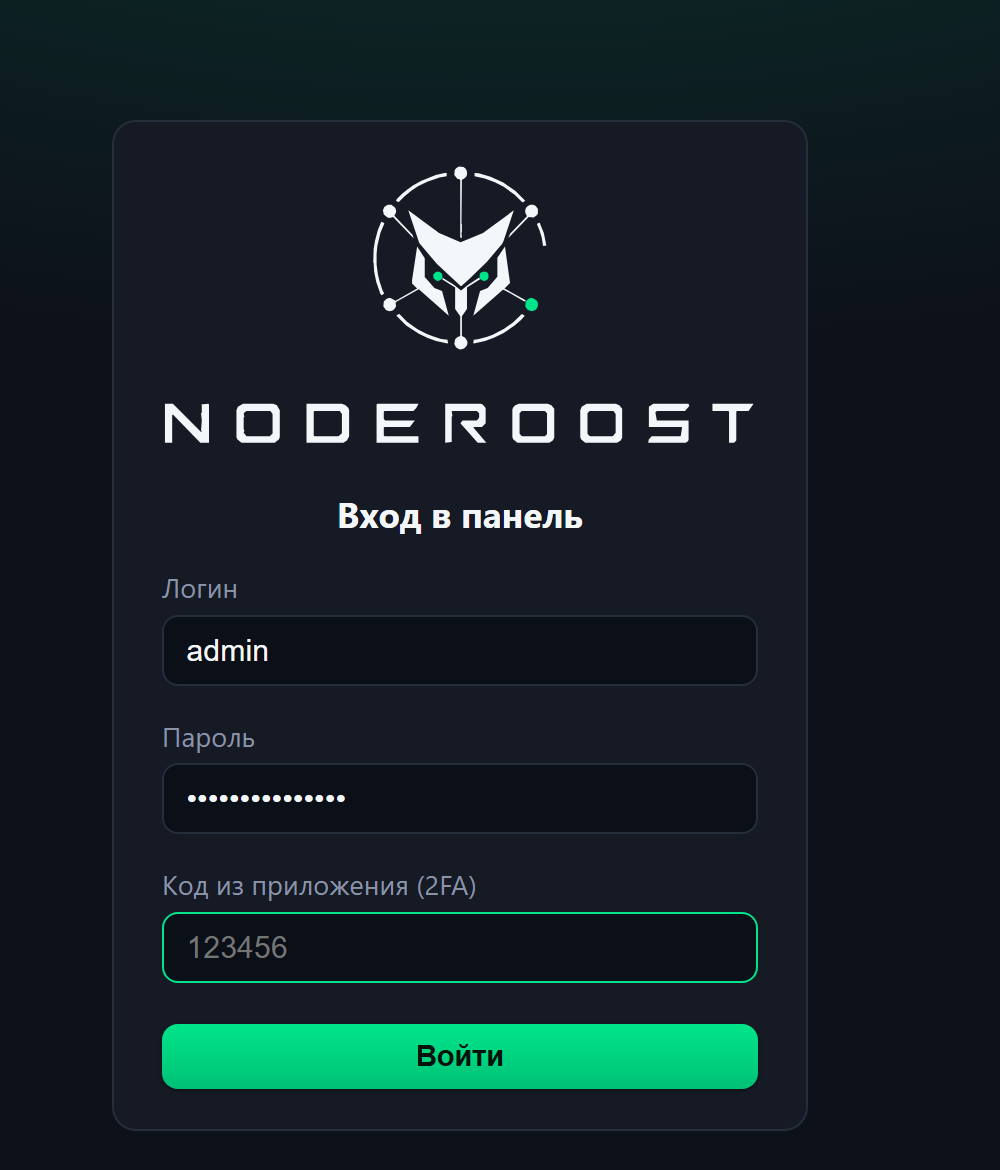
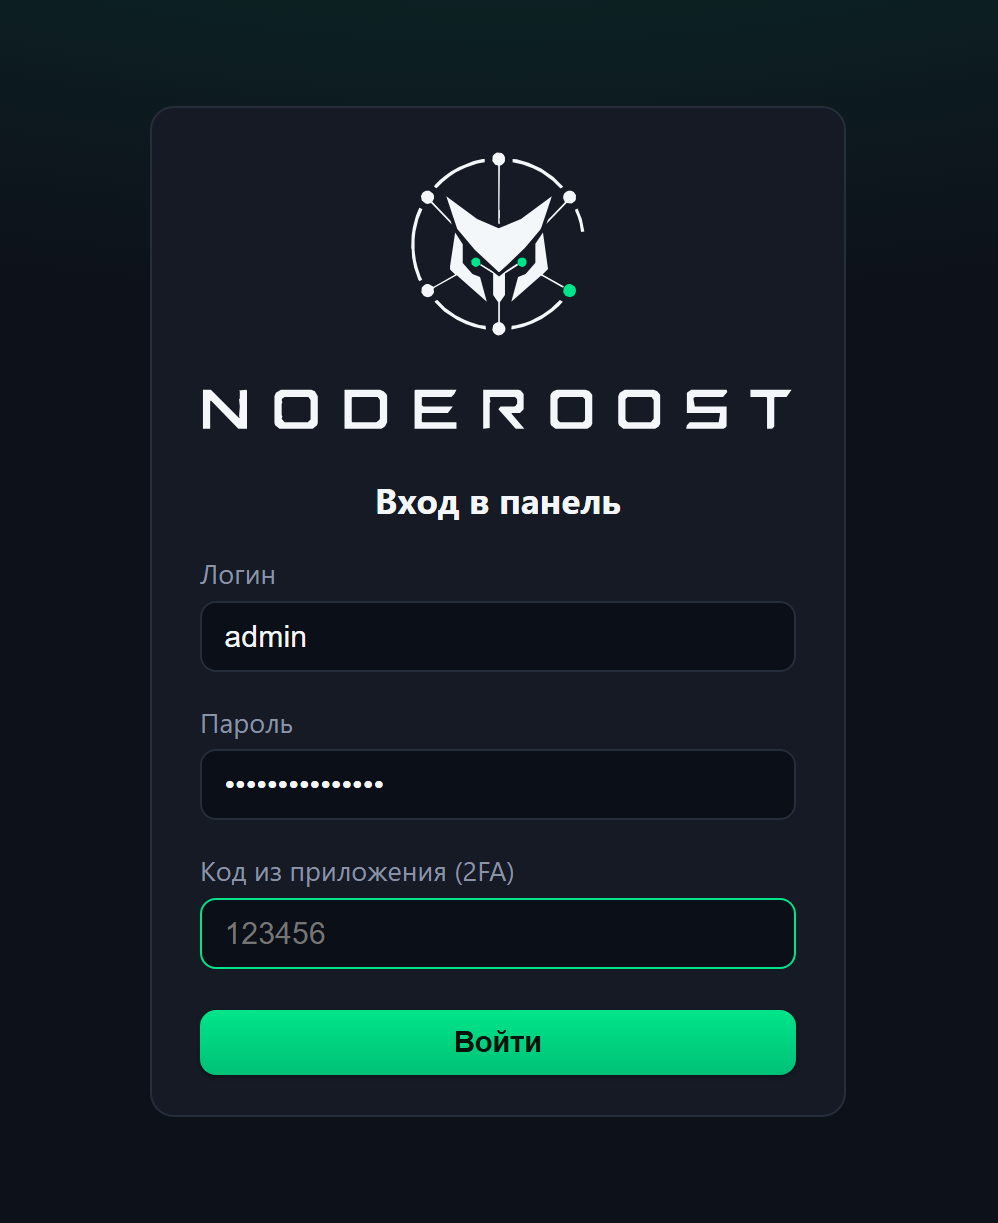
Centre the sign-in card in its frame
The frame is wider than the content area by a scrollbar's width, so the
card sat 20px left of centre, and the top margin came from the layout while
the bottom came from the trim — 144px against 39px. The shot is now cropped
to the card's own bounds with the same margin on every side.

Changed region(s): [[0.1553, 0.6769, 0.8076, 0.9538], [0.1553, 0.1231, 0.8076, 0.4615], [0.1553, 0.4615, 0.7455, 0.6462]]

diff --git a/landing/site/index.html b/landing/site/index.html
@@ -18,7 +18,7 @@
 <link rel="mask-icon" href="/safari-pinned-tab.svg" color="#00E58A">
 <link rel="manifest" href="/site.webmanifest">
 <meta name="theme-color" content="#0D111A">
-<link rel="stylesheet" href="/style.css?v=3">
+<link rel="stylesheet" href="/style.css?v=4">
 </head>
 <body>
 
@@ -427,7 +427,7 @@ curl -fsSL https://control.example.com/agent/&lt;токен&gt;/setup | sh</pre>
       <figure class="shot-side">
         <a class="frame" href="/shots/ru/login@2x.webp" data-lb>
           <div class="frame-bar"><i></i><i></i><i></i><span>panel.example.com</span><em>увеличить</em></div>
-          <img src="/shots/ru/login.webp" alt="Экран входа в NodeRoost" loading="lazy" width="1000" height="1170">
+          <img src="/shots/ru/login.webp" alt="Экран входа в NodeRoost" loading="lazy" width="998" height="1223">
         </a>
         <figcaption>Вход: пароль, второй фактор и ничего лишнего.</figcaption>
       </figure>
@@ -446,7 +446,7 @@ curl -fsSL https://control.example.com/agent/&lt;токен&gt;/setup | sh</pre>
   </div>
 </footer>
 
-<script src="/lb.js?v=3" defer></script>
+<script src="/lb.js?v=4" defer></script>
 
 </body>
 </html>

diff --git a/landing/site/en/index.html b/landing/site/en/index.html
@@ -18,7 +18,7 @@
 <link rel="mask-icon" href="/safari-pinned-tab.svg" color="#00E58A">
 <link rel="manifest" href="/site.webmanifest">
 <meta name="theme-color" content="#0D111A">
-<link rel="stylesheet" href="/style.css?v=3">
+<link rel="stylesheet" href="/style.css?v=4">
 </head>
 <body>
 
@@ -427,7 +427,7 @@ curl -fsSL https://control.example.com/agent/&lt;token&gt;/setup | sh</pre>
       <figure class="shot-side">
         <a class="frame" href="/shots/en/login@2x.webp" data-lb>
           <div class="frame-bar"><i></i><i></i><i></i><span>panel.example.com</span><em>zoom</em></div>
-          <img src="/shots/en/login.webp" alt="The NodeRoost sign-in screen" loading="lazy" width="1000" height="1170">
+          <img src="/shots/en/login.webp" alt="The NodeRoost sign-in screen" loading="lazy" width="998" height="1223">
         </a>
         <figcaption>Signing in: a password, a second factor, nothing else.</figcaption>
       </figure>
@@ -446,7 +446,7 @@ curl -fsSL https://control.example.com/agent/&lt;token&gt;/setup | sh</pre>
   </div>
 </footer>
 
-<script src="/lb.js?v=3" defer></script>
+<script src="/lb.js?v=4" defer></script>
 
 </body>
 </html>

diff --git a/docs/genshots.py b/docs/genshots.py
@@ -24,7 +24,9 @@ SHELL = """<!doctype html><html lang="{lang}"><head><meta charset="utf-8">
   /* анимации выключены: иначе кадр ловится на opacity:0 у модалок и карточек */
   *,*::before,*::after{{animation:none!important;transition:none!important}}
   body{{margin:0}}
-  .shot{{width:{width}px;padding:28px 0 34px}}
+  /* margin:auto — кадр шире .shot на полосу прокрутки, без этого
+     содержимое уезжает влево; поля сверху и снизу держим равными */
+  .shot{{width:{width}px;padding:40px 0 0;margin:0 auto}}
 </style></head><body class="theme-dark"><div class="shot"><div class="page">{body}</div></div></body></html>"""
 
 HEADER = """
@@ -312,6 +314,7 @@ PAGES = {"servers": servers_page, "access": access_page,
          "routing": routing_page, "node": node_page, "login": login_page}
 # экран входа — узкая карточка, широкий кадр оставил бы её в пустом поле
 WIDTHS = {"login": 460}
+TIGHT = {"login"}
 # высота кадра: у экрана входа контента на пол-экрана
 HEIGHTS = {"login": 700}
 
@@ -349,7 +352,24 @@ def render(lang):
                    for x in range(0, im.width, 5)):
                 bottom = min(im.height, y + 40)
                 break
-        im.crop((0, 0, im.width, bottom)).save(outdir / f"{name}.png", optimize=True)
+        if name in TIGHT:
+            # Узкая карточка: режем по её границам с ОДИНАКОВЫМ полем со всех
+            # сторон. Иначе поле сверху задаёт вёрстка, а снизу — обрезка, и
+            # карточка в кадре сидит не по центру.
+            def has(seq, bg):
+                return any(sum(abs(a - b) for a, b in zip(px[x, y], bg)) > 24
+                           for x, y in seq)
+            cols = [x for x in range(im.width)
+                    if has(((x, y) for y in range(0, im.height, 4)), px[x, 3])]
+            rows = [y for y in range(im.height)
+                    if has(((x, y) for x in range(0, im.width, 4)), px[3, y])]
+            m = 106
+            im.crop((max(0, cols[0] - m), max(0, rows[0] - m),
+                     min(im.width, cols[-1] + 1 + m),
+                     min(im.height, rows[-1] + 1 + m))
+                    ).save(outdir / f"{name}.png", optimize=True)
+        else:
+            im.crop((0, 0, im.width, bottom)).save(outdir / f"{name}.png", optimize=True)
         print(f"  {lang}/{name}.png  {(outdir / f'{name}.png').stat().st_size // 1024} КБ")
 
 
